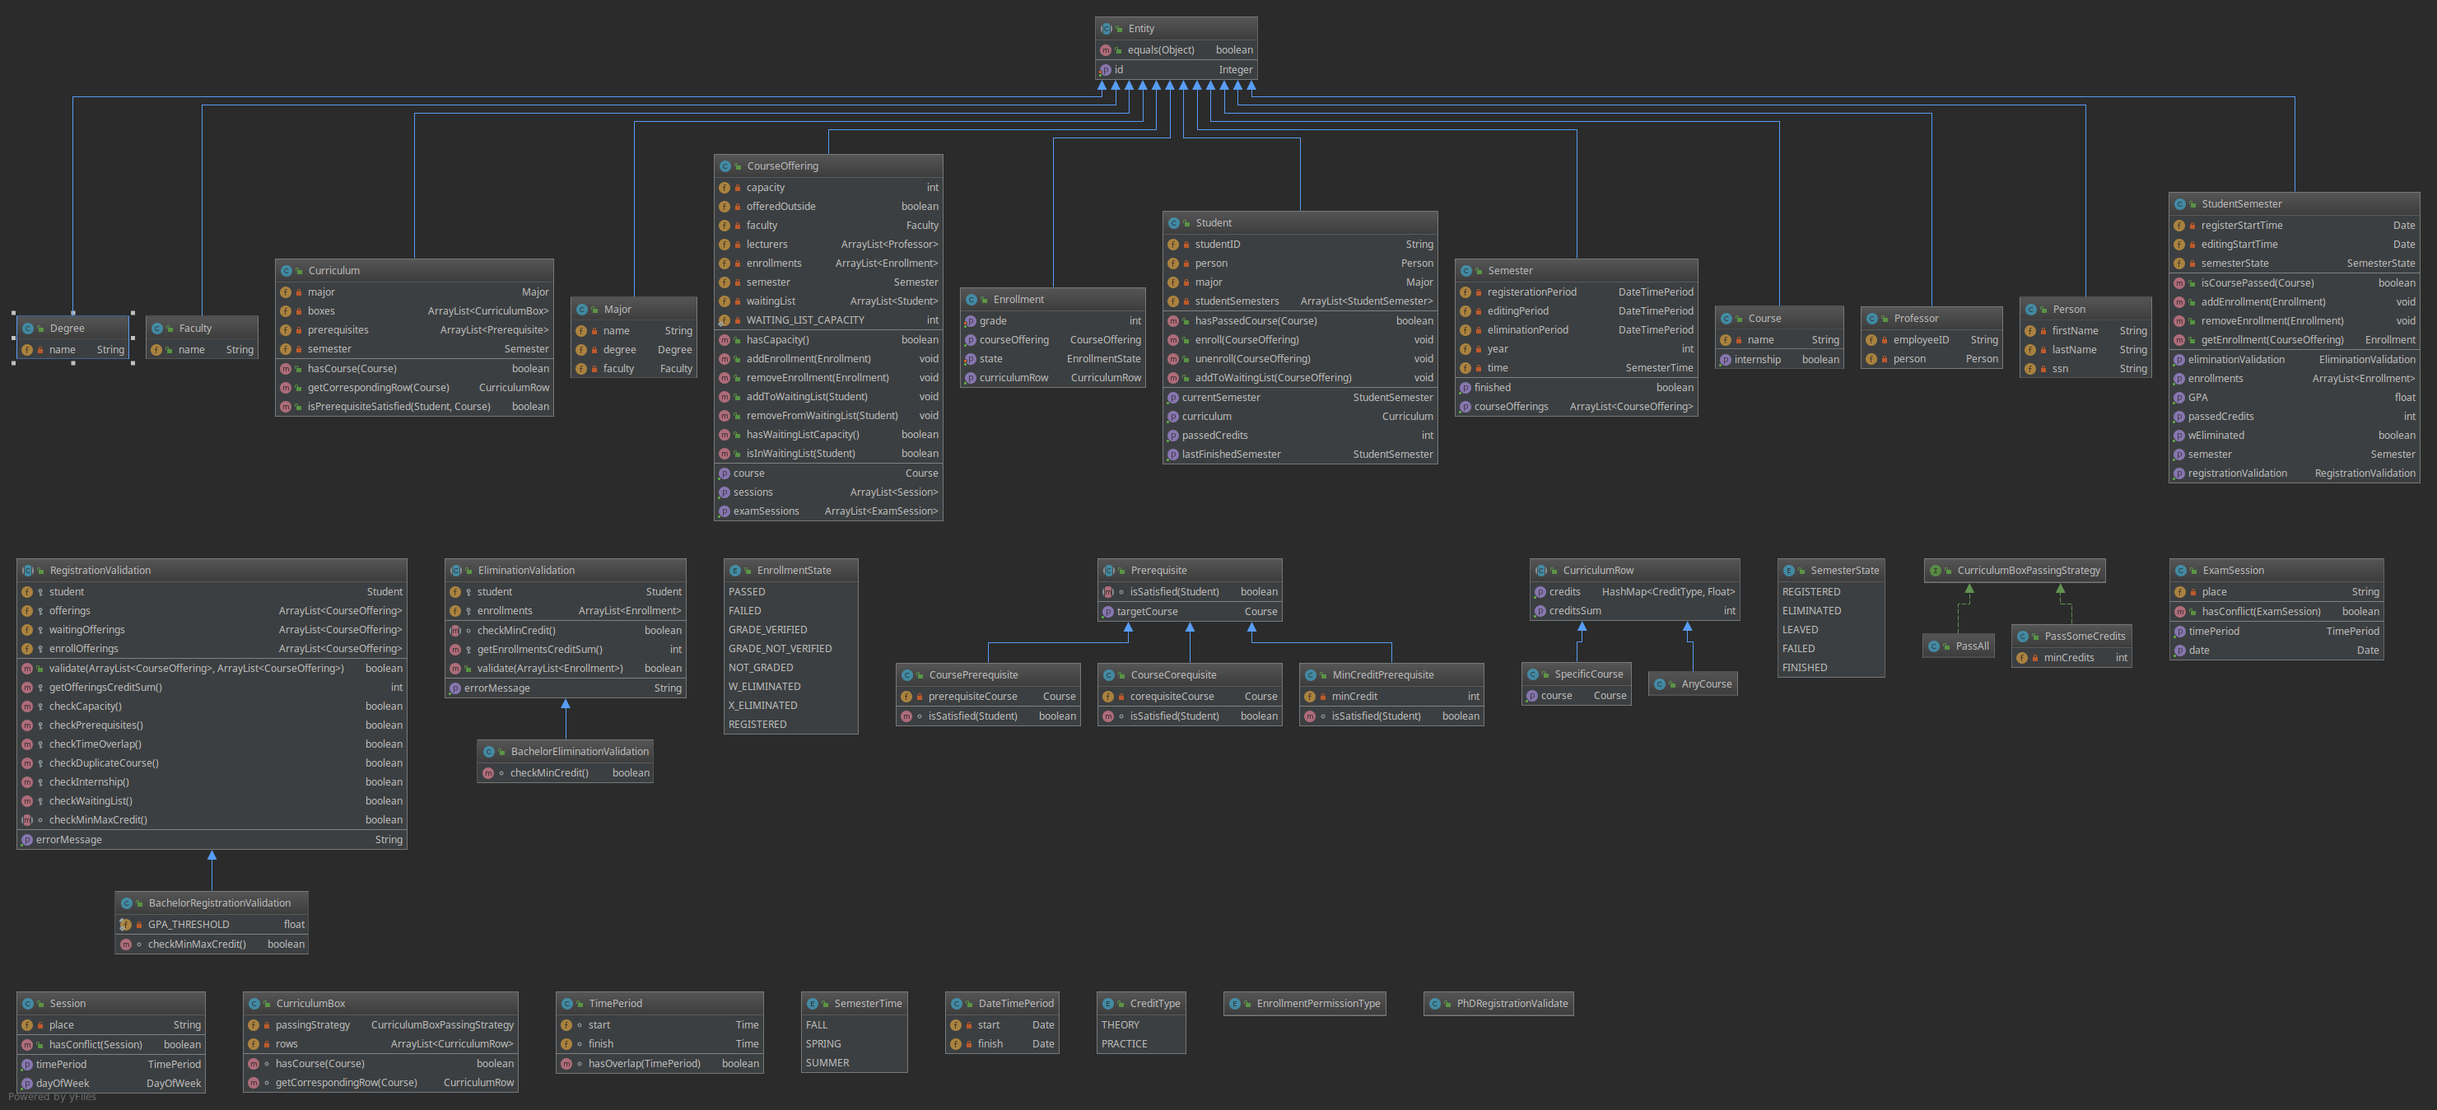
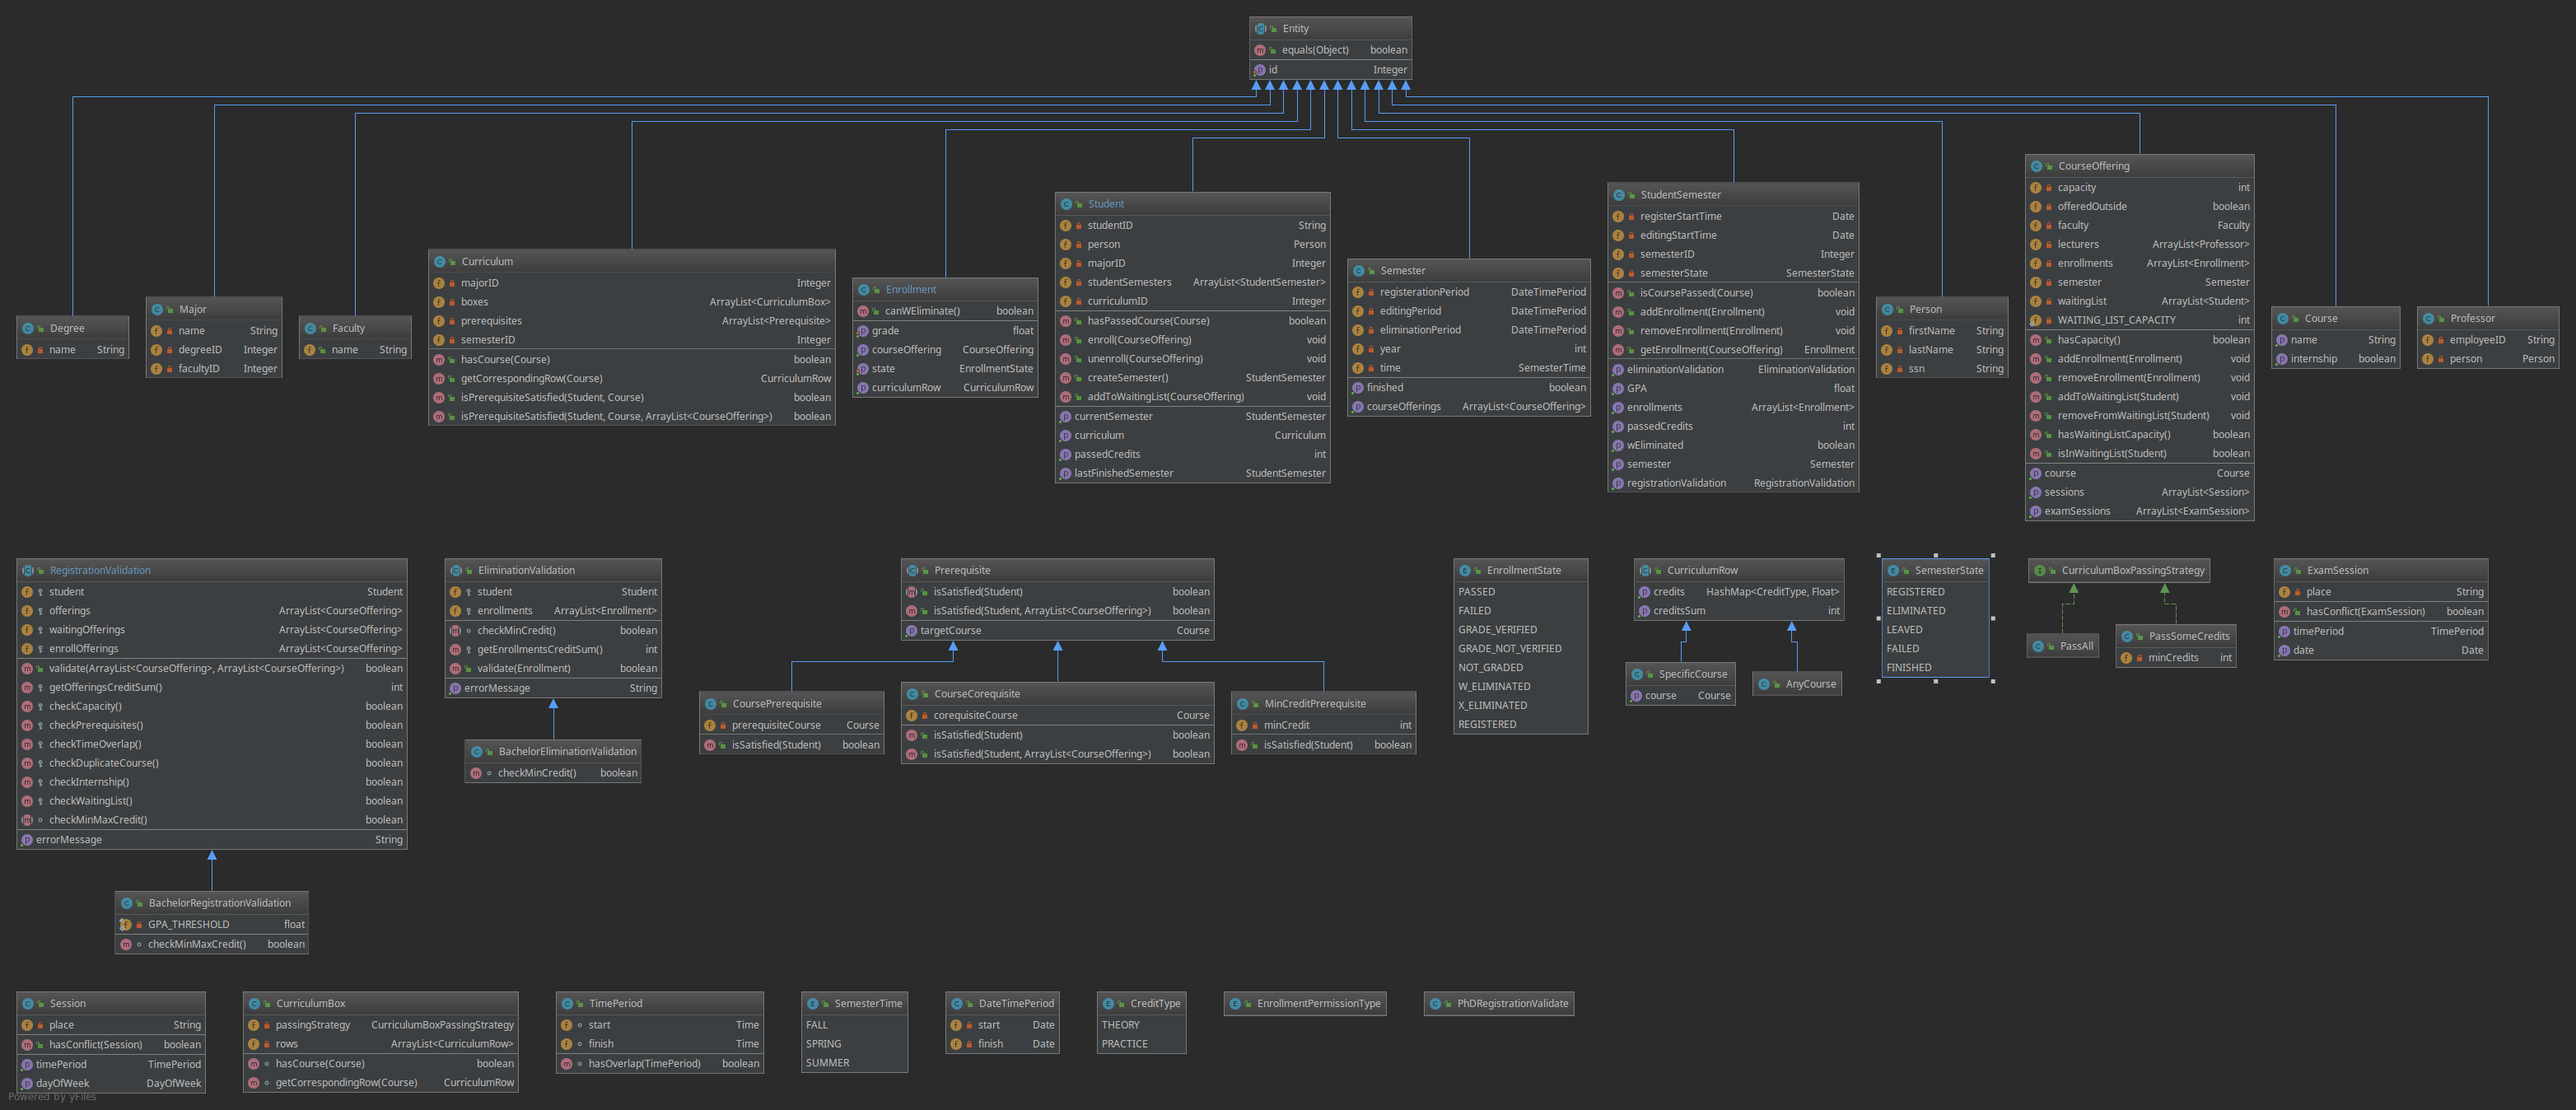
final changes

diff --git a/src/models/Enrollment.java b/src/models/Enrollment.java
@@ -3,7 +3,7 @@ package models;
 import java.util.Map;
 
 public class Enrollment extends Entity {
-    private int grade;
+    private float grade;
     private EnrollmentState state;
     private CourseOffering courseOffering;
     private CurriculumRow curriculumRow;
@@ -19,7 +19,7 @@ public class Enrollment extends Entity {
         this.curriculumRow = curriculumRow;
     }
 
-    public int getGrade() {
+    public float getGrade() {
         return grade;
     }
 
@@ -35,7 +35,7 @@ public class Enrollment extends Entity {
         return curriculumRow;
     }
 
-    public void setGrade(int grade) {
+    public void setGrade(float grade) {
         this.grade = grade;
     }
 

diff --git a/src/Boostan.java b/src/Boostan.java
@@ -59,7 +59,7 @@ class Boostan {
             Curriculum curriculum = new Curriculum(major.getId(), boxes, prerequisites, semester.getId());
             RepositoryContainer.curriculumRepository.insert(curriculum);
 
-            Person person = new Person("navid", "danesh", "002***1500");
+            Person person = new Person("navid", "danesh", "0021231500");
             Student student = new Student("810194534", person, major.getId(), curriculum.getId());
             RepositoryContainer.studentRepository.insert(student);
 
@@ -82,7 +82,5 @@ class Boostan {
         } catch (InvalidObjectException e) {
             e.printStackTrace();
         }
-
-
     }
 }

diff --git a/src/models/Student.java b/src/models/Student.java
@@ -73,7 +73,8 @@ public class Student extends Entity {
     public void unenroll(CourseOffering offering) throws InvalidObjectException {
         StudentSemester studentSemester = this.getCurrentSemester();
         Enrollment enrollment = studentSemester.getEnrollment(offering);
-        RepositoryContainer.semesterRepository.removeEnrollment(studentSemester, enrollment, offering);
+        studentSemester.removeEnrollment(enrollment);
+        RepositoryContainer.semesterRepository.removeEnrollment(enrollment, offering);
     }
 
     public StudentSemester createSemester() throws InvalidObjectException {

diff --git a/src/respositories/SemesterRepository.java b/src/respositories/SemesterRepository.java
@@ -35,8 +35,7 @@ public class SemesterRepository extends Repository<Semester> {
         offering.addEnrollment(enrollment);
     }
 
-    public void removeEnrollment(StudentSemester studentSemester, Enrollment enrollment, CourseOffering offering) throws InvalidObjectException {
-        studentSemester.removeEnrollment(enrollment);
+    public void removeEnrollment(Enrollment enrollment, CourseOffering offering) throws InvalidObjectException {
         enrollments.remove(enrollment);
         offering.removeEnrollment(enrollment);
     }

diff --git a/src/models/RegistrationValidation.java b/src/models/RegistrationValidation.java
@@ -11,6 +11,9 @@ public abstract class RegistrationValidation {
 
     public RegistrationValidation(Student student) {
         this.student = student;
+        enrollOfferings = new ArrayList<>();
+        waitingOfferings = new ArrayList<>();
+        offerings = new ArrayList<>();
     }
 
     public boolean validate(ArrayList<CourseOffering> enrollOfferings, ArrayList<CourseOffering> waitingOfferings) {

diff --git a/aggregates.md b/aggregates.md
@@ -24,3 +24,5 @@ CurriculumRow
 * **Degree**
 
 * **Professor**
+
+* **Person**
